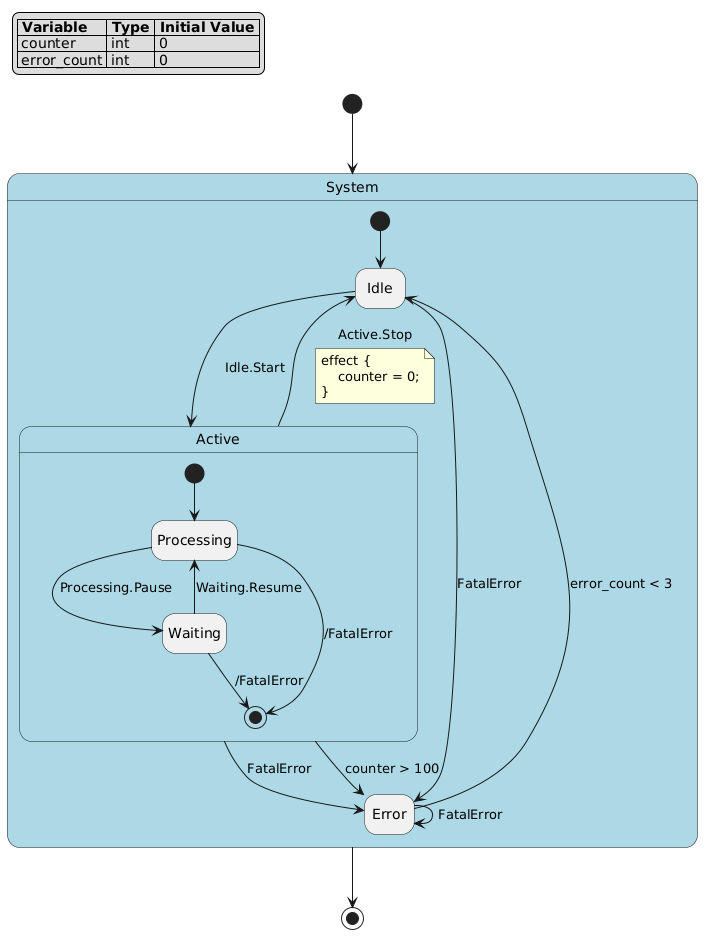
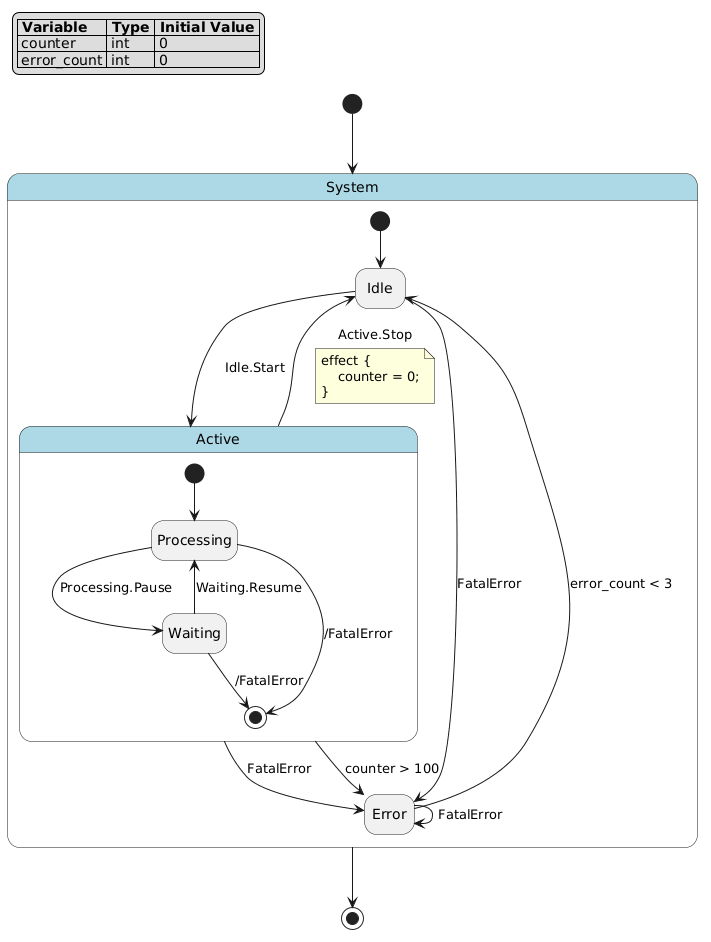
docs(tutorials): clarify visualization CLI option boundaries [skip-slow]

diff --git a/docs/source/tutorials/visualization/index.rst b/docs/source/tutorials/visualization/index.rst
@@ -134,7 +134,7 @@ Output:
 Configuration System
 ---------------------------------------
 
-The visualization system provides comprehensive configuration through ``PlantUMLOptions``. Typed scalar and tuple options listed in the CLI support table are available through both the Python API and the ``-c key=value`` arguments accepted by ``pyfcstm plantuml`` / ``pyfcstm visualize``; Python-only objects such as custom color dictionaries are marked explicitly.
+The visualization system provides comprehensive configuration through ``PlantUMLOptions``. Most typed scalar and tuple options are available through both the Python API and the ``-c key=value`` arguments accepted by ``pyfcstm plantuml`` / ``pyfcstm visualize``. Exceptions are marked explicitly: ``detail_level`` uses the dedicated ``-l/--level`` CLI option, and Python-only objects such as custom color dictionaries require the Python API.
 
 Configuration Options Reference
 ~~~~~~~~~~~~~~~~~~~~~~~~~~~~~~~~~
@@ -156,7 +156,7 @@ The following table provides a complete reference of all available configuration
    * - ``detail_level``
      - str
      - ``'normal'``
-     - Preset detail level: ``'minimal'``, ``'normal'``, or ``'full'``
+     - Preset detail level: ``'minimal'``, ``'normal'``, or ``'full'``. Python API field; CLI users should use ``-l/--level`` instead of ``-c detail_level=...``.
    * - **Variable Display**
      -
      -
@@ -276,7 +276,7 @@ The following table provides a complete reference of all available configuration
    * - ``max_depth``
      - int
      - ``None``
-     - Maximum nesting depth to visualize (``None`` = unlimited, ``0`` = root state only, positive values limit expanded depth)
+     - Maximum nesting depth to visualize (``None`` = unlimited, ``0`` = root state only, positive values count expanded depth from the root state)
    * - ``collapsed_state_marker``
      - str
      - ``'...'``
@@ -303,12 +303,12 @@ The following table provides a complete reference of all available configuration
 - Options with ``None`` default inherit from ``detail_level`` preset or parent options
 - ``show_lifecycle_actions`` controls defaults for enter/during/exit/aspect/abstract/concrete actions
 - Tuple options accept multiple format elements combined in display order
-- CLI uses ``-c key=value`` syntax for supported typed options; dictionary-valued options such as ``custom_colors`` currently require the Python API
+- CLI uses ``-c key=value`` syntax for supported typed options; use ``-l/--level`` for ``detail_level`` presets, and use the Python API for dictionary-valued options such as ``custom_colors``
 
 Detail Level Presets
 ~~~~~~~~~~~~~~~~~~~~~~~~~~~~~~~~~
 
-Detail level presets provide quick configuration for common use cases:
+Detail level presets provide quick configuration for common use cases. In Python, pass ``detail_level=...`` to ``PlantUMLOptions``; in the CLI, use ``-l/--level`` rather than ``-c detail_level=...``.
 
 - **minimal**: Bare structure with minimal details
 - **normal**: Balanced view with essential information (default)
@@ -645,7 +645,7 @@ Control how deep the visualization goes into nested states.
 
 **Configuration Options**
 
-- ``max_depth`` (int): Maximum nesting depth to visualize (``None`` = unlimited in Python, ``0`` = root state only, positive values limit expanded depth)
+- ``max_depth`` (int): Maximum nesting depth to visualize (``None`` = unlimited in Python, ``0`` = root state only, positive values count expanded depth from the root state)
 - ``collapsed_state_marker`` (str): Marker for collapsed states (default: ``'...'``)
 
 **Example**

diff --git a/docs/source/tutorials/visualization/index_zh.rst b/docs/source/tutorials/visualization/index_zh.rst
@@ -133,7 +133,7 @@ CLI 可视化
 配置系统
 ---------------------------------------
 
-可视化系统通过 ``PlantUMLOptions`` 提供全面配置。CLI 支持表中的类型化标量和元组选项可以通过 Python API 以及 ``pyfcstm plantuml`` / ``pyfcstm visualize`` 的 ``-c key=value`` 参数使用；自定义颜色字典等 Python-only 对象会单独标明。
+可视化系统通过 ``PlantUMLOptions`` 提供全面配置。大多数类型化标量和元组选项可以通过 Python API 以及 ``pyfcstm plantuml`` / ``pyfcstm visualize`` 的 ``-c key=value`` 参数使用。例外项会单独标明：\ ``detail_level``\ 使用专门的 ``-l/--level`` CLI 选项，自定义颜色字典等 Python-only 对象需要通过 Python API 配置。
 
 配置选项参考
 ~~~~~~~~~~~~~~~~~~~~~~~~~~~~~~~~~
@@ -155,7 +155,7 @@ CLI 可视化
    * - ``detail_level``
      - str
      - ``'normal'``
-     - 预设详细级别：``'minimal'``、``'normal'`` 或 ``'full'``
+     - 预设详细级别：``'minimal'``、``'normal'`` 或 ``'full'``。这是 Python API 字段；CLI 用户应使用 ``-l/--level``\ ，不要使用 ``-c detail_level=...``\ 。
    * - **变量显示**
      -
      -
@@ -275,7 +275,7 @@ CLI 可视化
    * - ``max_depth``
      - int
      - ``None``
-     - 可视化的最大嵌套深度（ ``None`` = 无限制， ``0`` = 仅根状态，正数限制展开深度）
+     - 可视化的最大嵌套深度（ ``None`` = 无限制， ``0`` = 仅根状态，正数表示从根状态开始计数的展开深度）
    * - ``collapsed_state_marker``
      - str
      - ``'...'``
@@ -302,12 +302,12 @@ CLI 可视化
 - 默认值为 ``None`` 的选项从 ``detail_level`` 预设或父选项继承
 - ``show_lifecycle_actions`` 控制 enter/during/exit/aspect/abstract/concrete 动作的默认值
 - 元组选项接受多个格式元素，按显示顺序组合
-- CLI 对受支持的类型化选项使用 ``-c key=value`` 语法；``custom_colors`` 等字典值选项当前需要通过 Python API 配置
+- CLI 对受支持的类型化选项使用 ``-c key=value`` 语法；\ ``detail_level``\ 预设使用 ``-l/--level``\ ，\ ``custom_colors``\ 等字典值选项需要通过 Python API 配置
 
 详细级别预设
 ~~~~~~~~~~~~~~~~~~~~~~~~~~~~~~~~~
 
-详细级别预设为常见用例提供快速配置：
+详细级别预设为常见用例提供快速配置。Python 中向 ``PlantUMLOptions`` 传入 ``detail_level=...``\ ；CLI 中使用 ``-l/--level``\ ，不要使用 ``-c detail_level=...``\ 。
 
 - **minimal**：最小细节的基本结构
 - **normal**：包含基本信息的平衡视图（默认）
@@ -613,7 +613,7 @@ PlantUML 源码产物：
 
 **配置选项**
 
-- ``max_depth`` (int)：可视化的最大嵌套深度（Python 中 ``None`` = 无限制， ``0`` = 仅根状态，正数限制展开深度）
+- ``max_depth`` (int)：可视化的最大嵌套深度（Python 中 ``None`` = 无限制， ``0`` = 仅根状态，正数表示从根状态开始计数的展开深度）
 - ``collapsed_state_marker`` (str)：折叠状态的标记（默认：``'...'``）
 
 **示例**